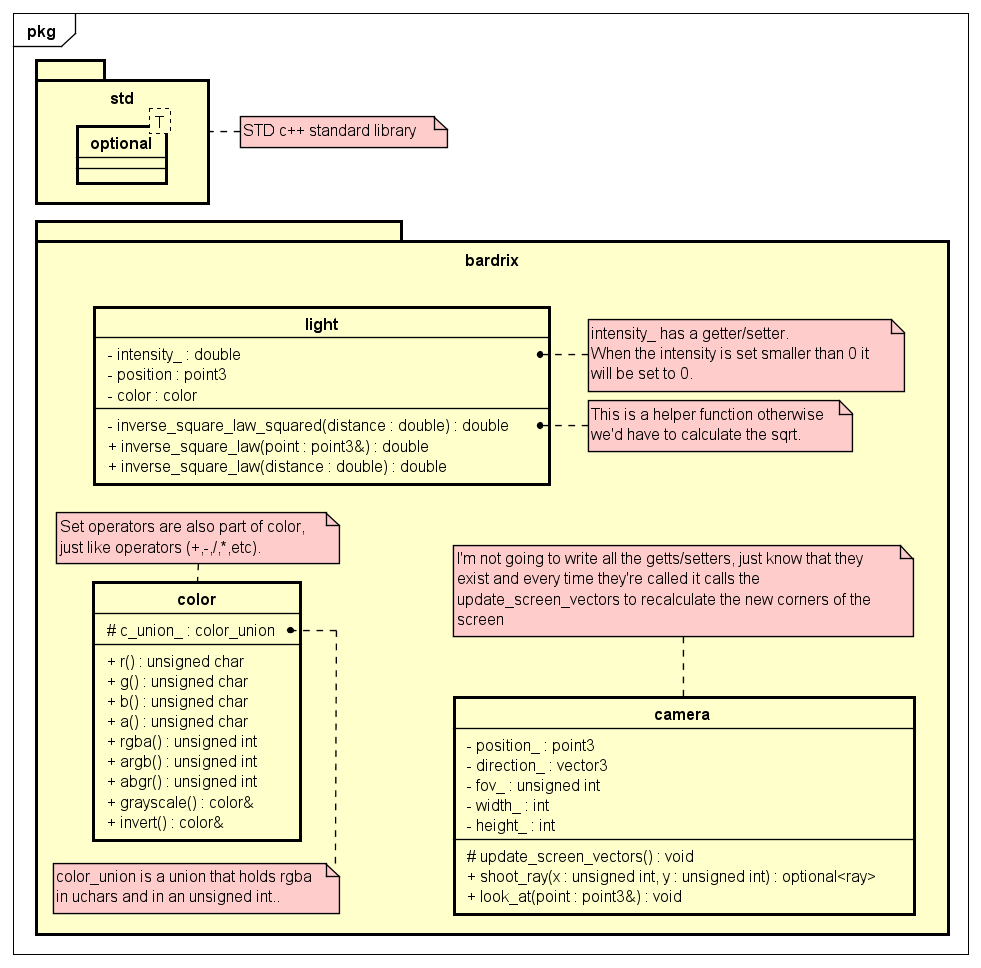
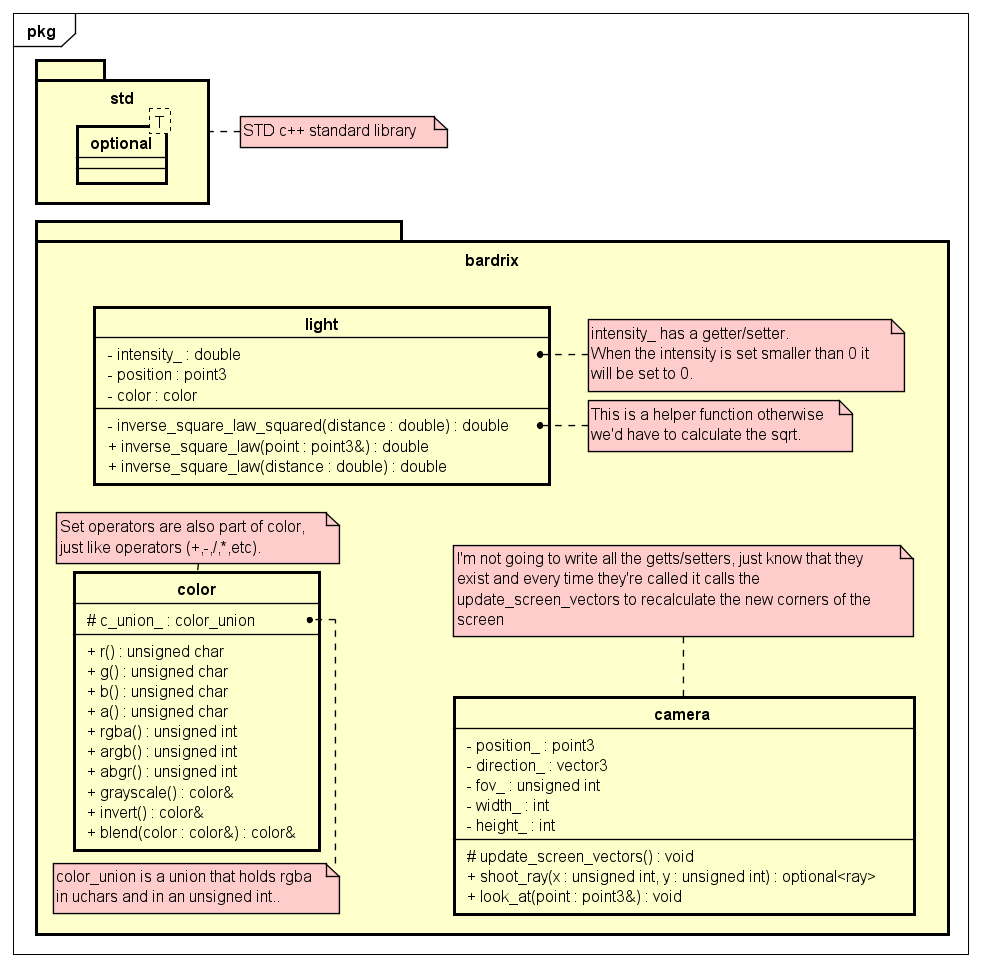
Added `blend` and `blended` to color. Added `#define NOMINMAX` to window example. Updated bardrix version in CMakeLists.txt for examples.

Changed region(s): [[0.0612, 0.5888, 0.3364, 0.8988]]

diff --git a/Bardrix_Tests/tests/color_test.cpp b/Bardrix_Tests/tests/color_test.cpp
@@ -80,6 +80,52 @@ TEST(color, grayscaled) {
     EXPECT_EQ(bardrix::color(34, 12, 72, 255).grayscaled().abgr(), 0xFF191919); // Random
 }
 
+/// \brief Test blending of colors
+TEST(color, blend) {
+    bardrix::color c1(255, 255, 255, 255);
+    bardrix::color c2(4, 255, 53, 255);
+    bardrix::color c3(4, 34, 53, 255);
+
+    c1.blend(c2);
+    EXPECT_EQ(c1.rgba(), 0x81FF9AFF);
+
+    c1 = bardrix::color(255, 255, 255, 255);
+    c2.blend(c1);
+    EXPECT_EQ(c2.rgba(), 0x81FF9AFF);
+
+    c2 = bardrix::color(4, 255, 53, 255);
+    c2.blend(c3);
+    EXPECT_EQ(c2.rgba(), 0x049035FF);
+
+    c2 = bardrix::color(4, 255, 53, 255);
+    c3.blend(c2);
+    EXPECT_EQ(c3.rgba(), 0x049035FF);
+
+    c3 = bardrix::color(4, 34, 53, 255);
+    c1.blend(c3);
+    EXPECT_EQ(c1.rgba(), 0x81909AFF);
+
+    c1 = bardrix::color(255, 255, 255, 255);
+    c3.blend(c1);
+    EXPECT_EQ(c3.rgba(), 0x81909AFF);
+}
+
+/// \brief Test blending of colors
+TEST(color, blended) {
+    bardrix::color c1(255, 255, 255, 255);
+    bardrix::color c2(4, 255, 53, 255);
+    bardrix::color c3(4, 34, 53, 255);
+
+    EXPECT_EQ(c1.blended(c2).rgba(), 0x81FF9AFF);
+    EXPECT_EQ(c2.blended(c1).rgba(), 0x81FF9AFF);
+
+    EXPECT_EQ(c2.blended(c3).rgba(), 0x049035FF);
+    EXPECT_EQ(c3.blended(c2).rgba(), 0x049035FF);
+
+    EXPECT_EQ(c1.blended(c3).rgba(), 0x81909AFF);
+    EXPECT_EQ(c3.blended(c1).rgba(), 0x81909AFF);
+}
+
 /// \brief Test the get rgba method
 TEST(color, rgba) {
     bardrix::color c1(255, 255, 255, 255);

diff --git a/Bardrix/include/bardrix/color.h b/Bardrix/include/bardrix/color.h
@@ -170,6 +170,20 @@ namespace bardrix {
         /// \see https://en.wikipedia.org/wiki/Grayscale#Converting_color_to_grayscale
         NODISCARD color grayscaled() const noexcept;
 
+        /// \brief Blends two colors.
+        /// \param other The color to blend with.
+        /// \return A reference to the current color after the blending.
+        /// \note The result is rounded down.
+        /// \example my_red_color.blend(color(0, 255, 0, 255)) // (127, 127, 0, 255)
+        color& blend(const color& other) noexcept;
+
+        /// \brief Blends two colors.
+        /// \param other The color to blend with.
+        /// \return A copy of the color after the blending.
+        /// \note The result is rounded down.
+        /// \example color color = color(255, 0, 0, 255).blended(color(0, 255, 0, 255)) // (127, 127, 0, 255)
+        NODISCARD color blended(const color& other) const noexcept;
+
         /// \brief Add two colors.
         /// \param other The color to add.
         /// \return The result of the addition as a copy.

diff --git a/Bardrix/src/bardrix/color.cpp b/Bardrix/src/bardrix/color.cpp
@@ -82,6 +82,20 @@ namespace bardrix {
         return gray;
     }
 
+    color& color::blend(const color& other) noexcept {
+        c_union_.r_g_b_a.r = (static_cast<int>(c_union_.r_g_b_a.r) + static_cast<int>(other.r())) / 2;
+        c_union_.r_g_b_a.g = (static_cast<int>(c_union_.r_g_b_a.g) + static_cast<int>(other.g())) / 2;
+        c_union_.r_g_b_a.b = (static_cast<int>(c_union_.r_g_b_a.b) + static_cast<int>(other.b())) / 2;
+        c_union_.r_g_b_a.a = (static_cast<int>(c_union_.r_g_b_a.a) + static_cast<int>(other.a())) / 2;
+        return *this;
+    }
+
+    color color::blended(const color& other) const noexcept {
+        color result = *this;
+        result.blend(other);
+        return result;
+    }
+
     // Operators
 
     color color::operator+(const color& other) const noexcept {

diff --git a/Docs/Examples/Raytracing/window.h b/Docs/Examples/Raytracing/window.h
@@ -9,6 +9,7 @@
 #include <bardrix/color.h>
 
 #undef UNICODE // This is for the window class to work with char* instead of wchar_t* (unicode)
+#define NOMINMAX // This is to avoid the min and max macros from windows.h
 #include <Windows.h>
 
 #include <cstdint>

diff --git a/Docs/Bardrix_Reference.md b/Docs/Bardrix_Reference.md
@@ -9,12 +9,12 @@
     - [dimension4](#dimension4)
     - [quaternion](#quaternion)
 - [View](#view)
-    - [Light](#light)
-    - [Color](#color)
-    - [Camera](#camera)
+    - [light](#light)
+    - [color](#color)
+    - [camera](#camera)
 - [Objects](#objects)
-    - [Material](#material)
-    - [Shape](#shape)
+    - [material](#material)
+    - [shape](#shape)
 
 ## Bardrix
 
@@ -499,7 +499,7 @@ This includes the camera, light, color etc.
 
 ![bardrix-view.png](Images/bardrix-view.png)
 
-### Light
+### light
 
 A class that represents a light source in the scene. \
 It has a position, color, and intensity.
@@ -545,7 +545,7 @@ It has a position, color, and intensity.
         - Outputs the components of the light to the output stream.
         - **Returns** a reference to the output stream.
 
-### Color
+### color
 
 A class that represents a color in the scene. \
 It has red, green, blue, and alpha components.
@@ -610,6 +610,16 @@ It has red, green, blue, and alpha components.
         - Formula: 0.299 * r + 0.587 * g + 0.114 * b for the red, green, and blue components; the alpha component
           will remain the same.
         - **Returns** a new color, the grayscaled color.
+    - `blend(color : color)`
+      - Blends the color with another color.
+      - The result is rounded down, meaning (12,12,12,12) blend with (13,13,13,13) you'd get (12,12,12,12).
+      - Blends the color with another color using r = (r + other.r) / 2 for all components (b = (b + other.b))
+      - **Returns** a reference to the color, this allows for chaining of the method.
+    - `blended(color : color)`
+      - Blends the color with another color.
+      - The result is rounded down, meaning (12,12,12,12) blended with (13,13,13,13) you'd get (12,12,12,12).
+      - Blends the color with another color using r = (r + other.r) / 2 for all components (b = (b + other.b)).
+      - **Returns** a new color, the blended color.
     - `print(std::ostream &os)`
         - Outputs the components of the color to the output stream.
         - **Returns** a reference to the output stream. (r, g, b, a)
@@ -697,7 +707,7 @@ It has red, green, blue, and alpha components.
         - **Returns** a reference to the output stream.
         - The output will be in the format (r, g, b, a)
 
-### Camera
+### camera
 
 A class that represents a camera in 3D space. \
 It has a position, direction, field of view and width/height of the image.
@@ -756,7 +766,7 @@ This part includes classes that are object based, like material, spheres, triang
 
 ![bardrix-objects.png](Images/bardrix-objects.png)
 
-### Material
+### material
 
 A class that represents a material for an object in the scene. \
 It has a color, ambient, diffuse, specular, shininess.
@@ -796,7 +806,7 @@ It has a color, ambient, diffuse, specular, shininess.
   - `get_shininess()`
       - **Returns** the shininess of the material.
 
-### Shape
+### shape
 
 Abstract class, only used for inheritance, serves as a base for all the shapes; like `sphere` and `triangle`. \
 It has a material, position and a method to check if a ray intersects with the shape.

diff --git a/Docs/Release_Notes.md b/Docs/Release_Notes.md
@@ -1,3 +1,32 @@
+# [v0.3.1](https://github.com/BardoBard/Bardrix/releases/tag/v0.3.1)
+
+## Overview
+
+Added color blending to `color`.
+
+**Full Changelog**: https://github.com/BardoBard/Bardrix/compare/v0.3.0...v0.3.1
+
+## Documentation Changes
+
+Renamed a classes in [Bardrix_Reference](https://github.com/bardobard/bardrix/blob/v0.3.1/Docs/Bardrix_Reference.md) to
+be lowercase instead of uppercase. \
+Added color blending
+to [Bardrix_Reference](https://github.com/bardobard/bardrix/blob/v0.3.0/Docs/Bardrix_Reference.md). \
+Added `#define NOMINMAX`
+to [window.h](https://github.com/bardobard/bardrix/blob/v0.3.0/Docs/Examples/Raytracing/window.h) to fix an issue with
+`min` and `max` being defined in `windows.h`. \
+Updated the versions in examples (cmake).
+
+## Code Changes
+
+### Major Changes
+
+Added color blending to [color](https://github.com/bardobard/bardrix/blob/v0.3.0/Bardrix/include/bardrix/color.h).
+
+## Test Changes
+
+Added tests for color blending.
+
 # [v0.3.0](https://github.com/BardoBard/Bardrix/releases/tag/v0.3.0)
 
 Major changes to the API have been made regarding `material` and `vector3::reflection`.
@@ -267,7 +296,8 @@ The changes have no backward compatibility issues, as the changes are new featur
 
 Added [Bardrix_Reference](https://github.com/bardobard/bardrix/blob/v0.0.5/Docs/Bardrix_Reference.md) that contains all
 the functions and classes in Bardrix. \
-Added [Mathematics](https://github.com/bardobard/bardrix/blob/v0.0.5/Docs/Mathematics.md) that contains mathematical functions to learn about the mathematics used in
+Added [Mathematics](https://github.com/bardobard/bardrix/blob/v0.0.5/Docs/Mathematics.md) that contains mathematical
+functions to learn about the mathematics used in
 Bardrix. \
 Added [Introduction](https://github.com/bardobard/bardrix/blob/v0.0.5/Docs/Introduction.md) that contains a brief
 introduction to Bardrix. \
